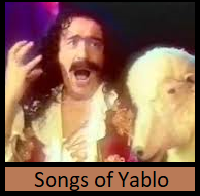
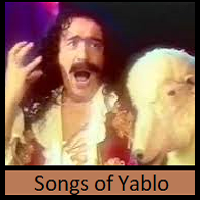
resized 'Yablo' picture to prevent issues with image placement. Changed height of 'About' page when sized to 980.

diff --git a/assets/css/style.css b/assets/css/style.css
@@ -226,46 +226,42 @@ a {text-decoration:none;} /*gets rid of underscore between images*/
 @media only screen and (max-width: 980px) {
     
     header {
-        left: 570px;
+        left: 560px;
     }
     
-    #about {/*navigational button*/
+    #about {
         margin-left: 188px;
     }
     
-    #portfolio {/*navigational button*/
+    #portfolio {
         margin-left: 262px;
     }
     
-    #contact {/*navigational button*/
+    #contact {
         margin-left: 336px;
     }
     
-    /*About Page specific declarations*/
-    
-    #about-content {/*includes h2, img, <p>*/
+    #about-content {
         width: 500px;
         left: 60%;
     }
     
-    #relative-index {/*argyle background*/
-        height: 1570px;
+    #relative-index {
+        height: 1420px;
     }
     
     #rickpic {
         height: 150px;
         width: 176px;
     }
-    
-    /*Portfolio Page specific declarations*/
-    
-    #portfolio-content {/*includes h2 and all image links*/
+  
+    #portfolio-content {
         width: 500px;
         left: 41%;
         height: 840px;
     }
     
-    #relative-portfolio {/*argyle background*/
+    #relative-portfolio {
         height: 1000px;
     }
     
@@ -273,9 +269,7 @@ a {text-decoration:none;} /*gets rid of underscore between images*/
         height: 225px;
     }
     
-    /*Contact Page specific declarations*/
-    
-    #contact-content {/*includes h2 and input lines*/
+    #contact-content {
         left: 41%;
         width: 500px;
     }
@@ -287,33 +281,31 @@ a {text-decoration:none;} /*gets rid of underscore between images*/
         height: 30px;
         width: 80px;
         font-size: x-large;
-      }
+    }
 
     header {
-        left: 530px;
+        left: 540px;
     }
     
-    #about {/*navigational button*/
-        margin-left: 34px;
+    #about {
+        margin-left: 24px;
     }
     
-    #portfolio {/*navigational button*/
-        margin-left: 137px;
+    #portfolio {
+        margin-left: 127px;
     }
     
-    #contact {/*navigational button*/
-        margin-left: 240px;
+    #contact {
+        margin-left: 230px;
     }
     
-    /*About Page specific declarations*/
-    
-    #about-content {/*includes h2, img, <p>*/
+    #about-content {
         width: 600px;
         left: 75%;
         font-size: 20px;
     }
     
-    #relative-index {/*argyle background*/
+    #relative-index {
         height: 1850px;
     }
     
@@ -322,25 +314,21 @@ a {text-decoration:none;} /*gets rid of underscore between images*/
         width: 300px;
     }
     
-    /*Portfolio Page specific declarations*/
-    
-    #portfolio-content {/*includes h2 and all image links*/
+    #portfolio-content {
         width: 600px;
         left: 50%;
         height: 990px;
     }
     
-    #relative-portfolio {/*argyle background*/
+    #relative-portfolio {
         height: 1130px;
     }
     
     .projects {
-        height: 275px;
+        height: 278px;
     }
-  
-    /*Contact Page specific declarations*/
     
-    #contact-content {/*includes h2 and input lines*/
+    #contact-content {
         left: 50%;
         width: 600px;
     }
@@ -350,18 +338,17 @@ a {text-decoration:none;} /*gets rid of underscore between images*/
 
     .button {
         height: 20px;
-        width: 80px;
         font-size: x-large;
         border-radius: 0;
         border-width: 0;
-      }
+    }
       
-      nav {/*includes buttons and header*/
+    nav {
         background: rgb(62, 66, 55);
     }
 
     header {
-    width: 566px;
+    width: 550px;
     left: 510px;
     height: 30px;
     border-radius: 0px;
@@ -370,28 +357,26 @@ a {text-decoration:none;} /*gets rid of underscore between images*/
     background-color: #6d695c;
     }
     
-    #about {/*navigational button*/
+    #about {
         margin-left: -163px;
     }
     
-    #portfolio {/*navigational button*/
+    #portfolio {
         margin-left: -60px;
     }
     
-    #contact {/*navigational button*/
+    #contact {
         margin-left: 43px;
     }
     
-    /*About Page specific declarations*/
-    
-    #about-content {/*includes h2, img, <p>*/
+    #about-content {
         width: 500px;
-        left: 88%;
+        left: 88.75%;
         font-size: large;
         height:2000px;
     }
     
-    #relative-index {/*argyle background*/
+    #relative-index {
         height: 2150px;
     }
     
@@ -407,28 +392,24 @@ a {text-decoration:none;} /*gets rid of underscore between images*/
         top: 550px;
         position: relative;
     }
-    
-    /*Portfolio Page specific declarations*/
-    
-    #portfolio-content {/*includes h2 and all image links*/
+
+    #portfolio-content {
         width: 500px;
-        left: 58%;
+        left: 58.75%;
         height: 3120px;
     }
     
-    #relative-portfolio {/*argyle background*/
-        height: 3250px;
+    #relative-portfolio {
+        height: 3280px;
     }
     
     .projects {
         height: 480px;
         
     }
-  
-    /*Contact Page specific declarations*/
     
-    #contact-content {/*includes h2 and input lines*/
-        left: 58%;
+    #contact-content {
+        left: 58.25%;
         width: 500px;
         font-size: large;
         
